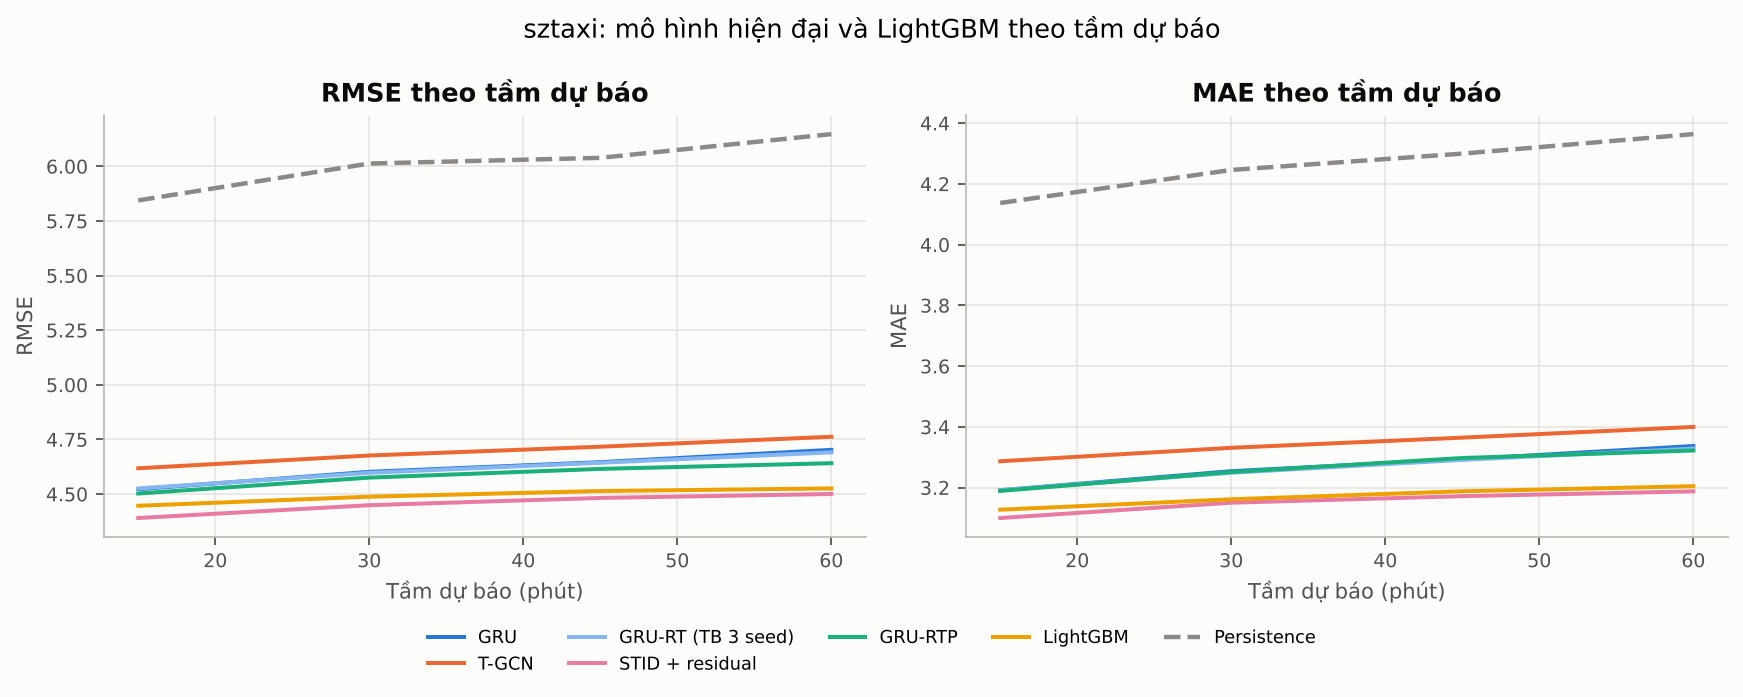
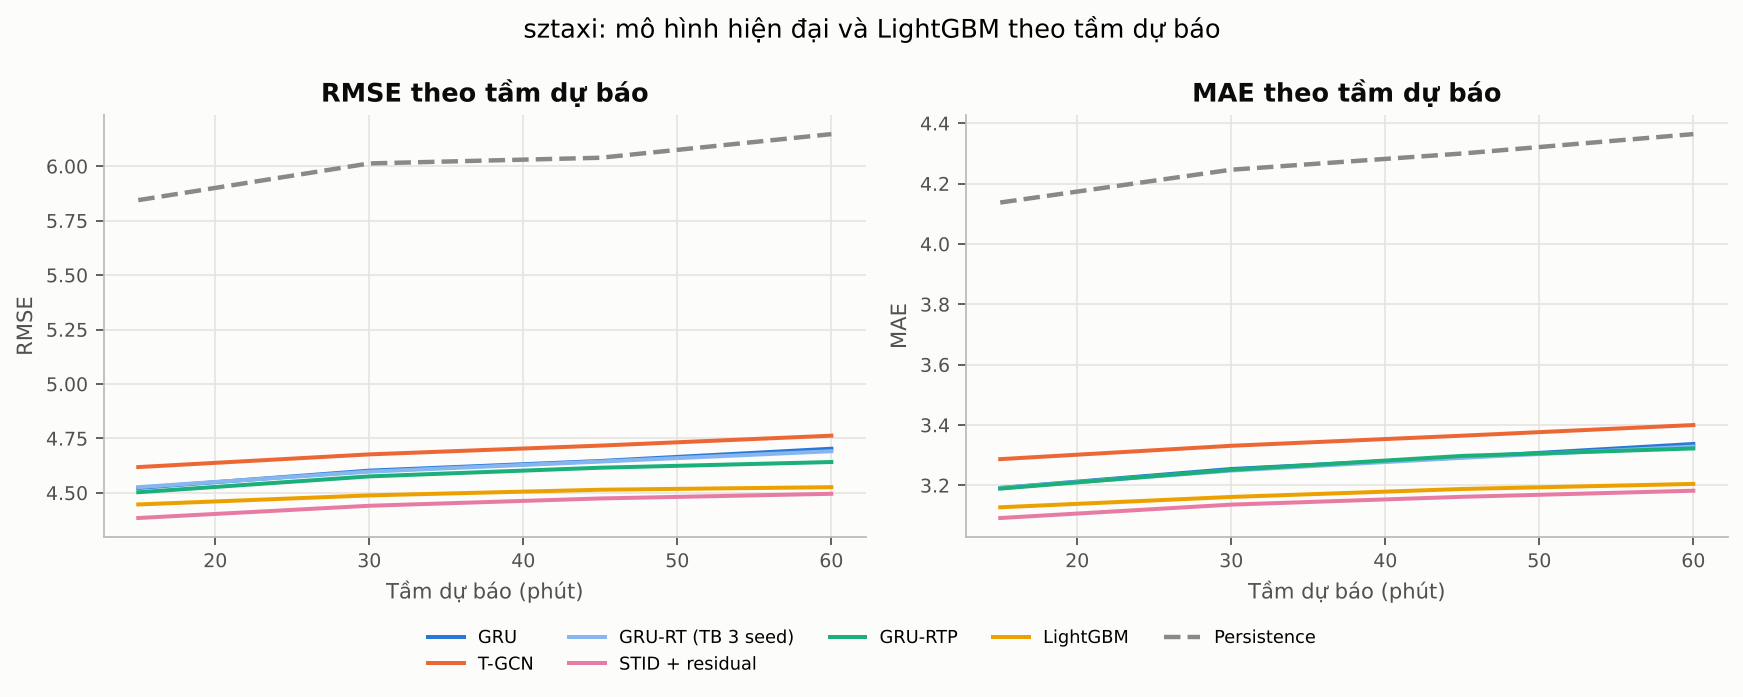
Report 11.7: SZ-taxi — STID best single model, blend 4.40
Claude-Session: https://claude.ai/code/session_01B22viBVGJcNTDcZfHB3jNA

diff --git a/reports/BAO_CAO_TGCN.md b/reports/BAO_CAO_TGCN.md
@@ -814,7 +814,37 @@ So với bài báo (cách tính gộp của tác giả): trộn theo tầm đạ
 
 ### 11.7 SZ-taxi
 
-SZ_MODERN_SECTION
+Cùng các hướng trên SZ-taxi (22 ngày train, mục tiêu ≠ 0; Graph WaveNet/DCRNN không chạy trên SZ-taxi vì giới hạn CPU):
+
+| Mô hình | nhóm | seed | tham số | RMSE val | RMSE test | MAE test | 15 phút | 60 phút | phút/run |
+|---|---|---|---|---|---|---|---|---|---|
+| Trộn theo tầm: LightGBM v2, 127 lá (chọn theo val) + STID + residual + GRU-RTP (+ hồ sơ giờ) + GRU | ensemble | 3 | — | — | 4.402 | 3.106 | 4.35 / 3.06 | 4.44 / 3.14 | — |
+| STID | hiện đại | 3 | 108,292 | 3.829 | 4.445 ± 0.009 | 3.140 ± 0.005 | 4.39 / 3.09 | 4.49 / 3.18 | 4 |
+| STID + residual | hiện đại | 3 | 108,292 | 3.829 | 4.449 ± 0.007 | 3.143 ± 0.009 | 4.38 / 3.09 | 4.50 / 3.18 | 4 |
+| Ensemble LightGBM v2, 127 lá (chọn theo val) (3 seed) | ensemble | 3 | — | — | 4.484 | 3.163 | 4.44 / 3.12 | 4.51 / 3.19 | — |
+| Ensemble LightGBM + GRU-RTP (+ hồ sơ giờ) | ensemble | 3 | — | — | 4.486 | 3.174 | 4.44 / 3.13 | 4.52 / 3.21 | — |
+| LightGBM v2, 127 lá (chọn theo val) | khai phá dữ liệu | 3 | — | 3.853 | 4.494 ± 0.002 | 3.170 ± 0.001 | 4.45 / 3.13 | 4.53 / 3.20 | 3 |
+| LightGBM (đặc trưng KG-TG) | khai phá dữ liệu | 3 | — | 3.899 | 4.523 ± 0.002 | 3.199 ± 0.001 | 4.46 / 3.14 | 4.57 / 3.24 | 4 |
+| Ensemble GRU-RTP (+ hồ sơ giờ) (3 seed) | ensemble | 3 | — | — | 4.567 | 3.250 | 4.49 / 3.18 | 4.63 / 3.31 | — |
+| GRU-RTP (+ hồ sơ giờ) | hồ sơ giờ | 3 | 14,100 | 3.979 | 4.584 ± 0.018 | 3.265 ± 0.016 | 4.50 / 3.19 | 4.64 / 3.32 | 6 |
+| GRU-RT | phần 1 | 1 | 13,892 | 3.977 | 4.615 | 3.265 | 4.53 / 3.19 | 4.69 / 3.33 | 17 |
+| Ensemble GRU-RT (3 seed) | ensemble | 3 | — | — | 4.615 | 3.265 | 4.53 / 3.19 | 4.69 / 3.33 | — |
+| GRU | paper | 3 | 13,124 | 3.970 | 4.619 ± 0.001 | 3.269 ± 0.002 | 4.52 / 3.19 | 4.70 / 3.34 | 10 |
+| Hồi quy tuyến tính | baseline | 1 | — | — | 4.661 | 3.348 | 4.55 / 3.25 | 4.76 / 3.43 | — |
+| T-GCN | paper | 3 | 12,932 | 4.019 | 4.694 ± 0.004 | 3.346 ± 0.004 | 4.62 / 3.29 | 4.76 / 3.40 | 30 |
+| T-GCN-RT | phần 1 | 1 | 13,700 | 4.583 | 5.280 | 3.780 | 5.16 / 3.68 | 5.37 / 3.85 | 29 |
+| Persistence | baseline | 1 | — | — | 6.012 | 4.262 | 5.84 / 4.14 | 6.15 / 4.36 | — |
+
+*RMSE / MAE trung bình 12 tầm; "15 phút", "60 phút" = RMSE / MAE tại đúng bước đó; thời gian train trên 1 nhân CPU, có tranh chấp.*
+
+![Hình 24. SZ-taxi: xếp hạng mọi mô hình (mục tiêu ≠ 0)](figures/modern_ranking_sztaxi.png)
+
+Trên SZ-taxi, bức tranh **đảo ngược** so với Los-loop — và chính sự đảo ngược đó là minh chứng:
+
+- **STID là mô hình đơn tốt nhất (4.445 ± 0.009 / 3.140)**, hơn LightGBM v2 (4.494) và GRU (4.619); mọi khác biệt so với ensemble GRU-RT đều có ý nghĩa (p < 10⁻⁴). Trộn theo tầm (STID 0.75–0.80, LightGBM 0.10–0.20) đạt **4.402 / 3.106**, giảm 4.7% RMSE và 5.0% MAE so với GRU.
+- **Vì sao STID thắng ở đây mà thua ở Los-loop?** Embedding "danh tính cảm biến" và "khung giờ" của STID thực chất **tự học hồ sơ theo giờ của từng cảm biến** — đúng tri thức mà LightGBM nhận qua đặc trưng thiết kế tay. Với SZ-taxi mỗi khung giờ được thấy ~22 lần trong train, đủ để học; với Los-loop chỉ ~5 lần, nên STID quá khớp. Cùng một ý tưởng, hai kết luận ngược nhau — phụ thuộc vào lượng dữ liệu.
+- LightGBM v2 (thêm bất thường láng giềng/toàn mạng) cải thiện rõ trên SZ-taxi (4.494 so với 4.523 của v1), khác với Los-loop: đặc trưng trạng thái toàn mạng hữu ích hơn trên chuỗi nhiễu, nơi trung bình hóa nhiều cảm biến lọc được nhiễu.
+- Residual tiếp tục không giúp trên dữ liệu nhiễu (STID + residual 4.449 ≈ STID 4.445), nhất quán với mục 10.
 
 ### 11.8 Mô hình cuối cùng mới và cách đọc lên để dự báo
 

diff --git a/reports/src/part8_modern.md b/reports/src/part8_modern.md
@@ -77,7 +77,18 @@ So với bài báo (cách tính gộp của tác giả): trộn theo tầm đạ
 
 ### 11.7 SZ-taxi
 
-SZ_MODERN_SECTION
+Cùng các hướng trên SZ-taxi (22 ngày train, mục tiêu ≠ 0; Graph WaveNet/DCRNN không chạy trên SZ-taxi vì giới hạn CPU):
+
+SZ_MODERN_TABLE
+
+![Hình 24. SZ-taxi: xếp hạng mọi mô hình (mục tiêu ≠ 0)](figures/modern_ranking_sztaxi.png)
+
+Trên SZ-taxi, bức tranh **đảo ngược** so với Los-loop — và chính sự đảo ngược đó là minh chứng:
+
+- **STID là mô hình đơn tốt nhất (4.445 ± 0.009 / 3.140)**, hơn LightGBM v2 (4.494) và GRU (4.619); mọi khác biệt so với ensemble GRU-RT đều có ý nghĩa (p < 10⁻⁴). Trộn theo tầm (STID 0.75–0.80, LightGBM 0.10–0.20) đạt **4.402 / 3.106**, giảm 4.7% RMSE và 5.0% MAE so với GRU.
+- **Vì sao STID thắng ở đây mà thua ở Los-loop?** Embedding "danh tính cảm biến" và "khung giờ" của STID thực chất **tự học hồ sơ theo giờ của từng cảm biến** — đúng tri thức mà LightGBM nhận qua đặc trưng thiết kế tay. Với SZ-taxi mỗi khung giờ được thấy ~22 lần trong train, đủ để học; với Los-loop chỉ ~5 lần, nên STID quá khớp. Cùng một ý tưởng, hai kết luận ngược nhau — phụ thuộc vào lượng dữ liệu.
+- LightGBM v2 (thêm bất thường láng giềng/toàn mạng) cải thiện rõ trên SZ-taxi (4.494 so với 4.523 của v1), khác với Los-loop: đặc trưng trạng thái toàn mạng hữu ích hơn trên chuỗi nhiễu, nơi trung bình hóa nhiều cảm biến lọc được nhiễu.
+- Residual tiếp tục không giúp trên dữ liệu nhiễu (STID + residual 4.449 ≈ STID 4.445), nhất quán với mục 10.
 
 ### 11.8 Mô hình cuối cùng mới và cách đọc lên để dự báo
 
